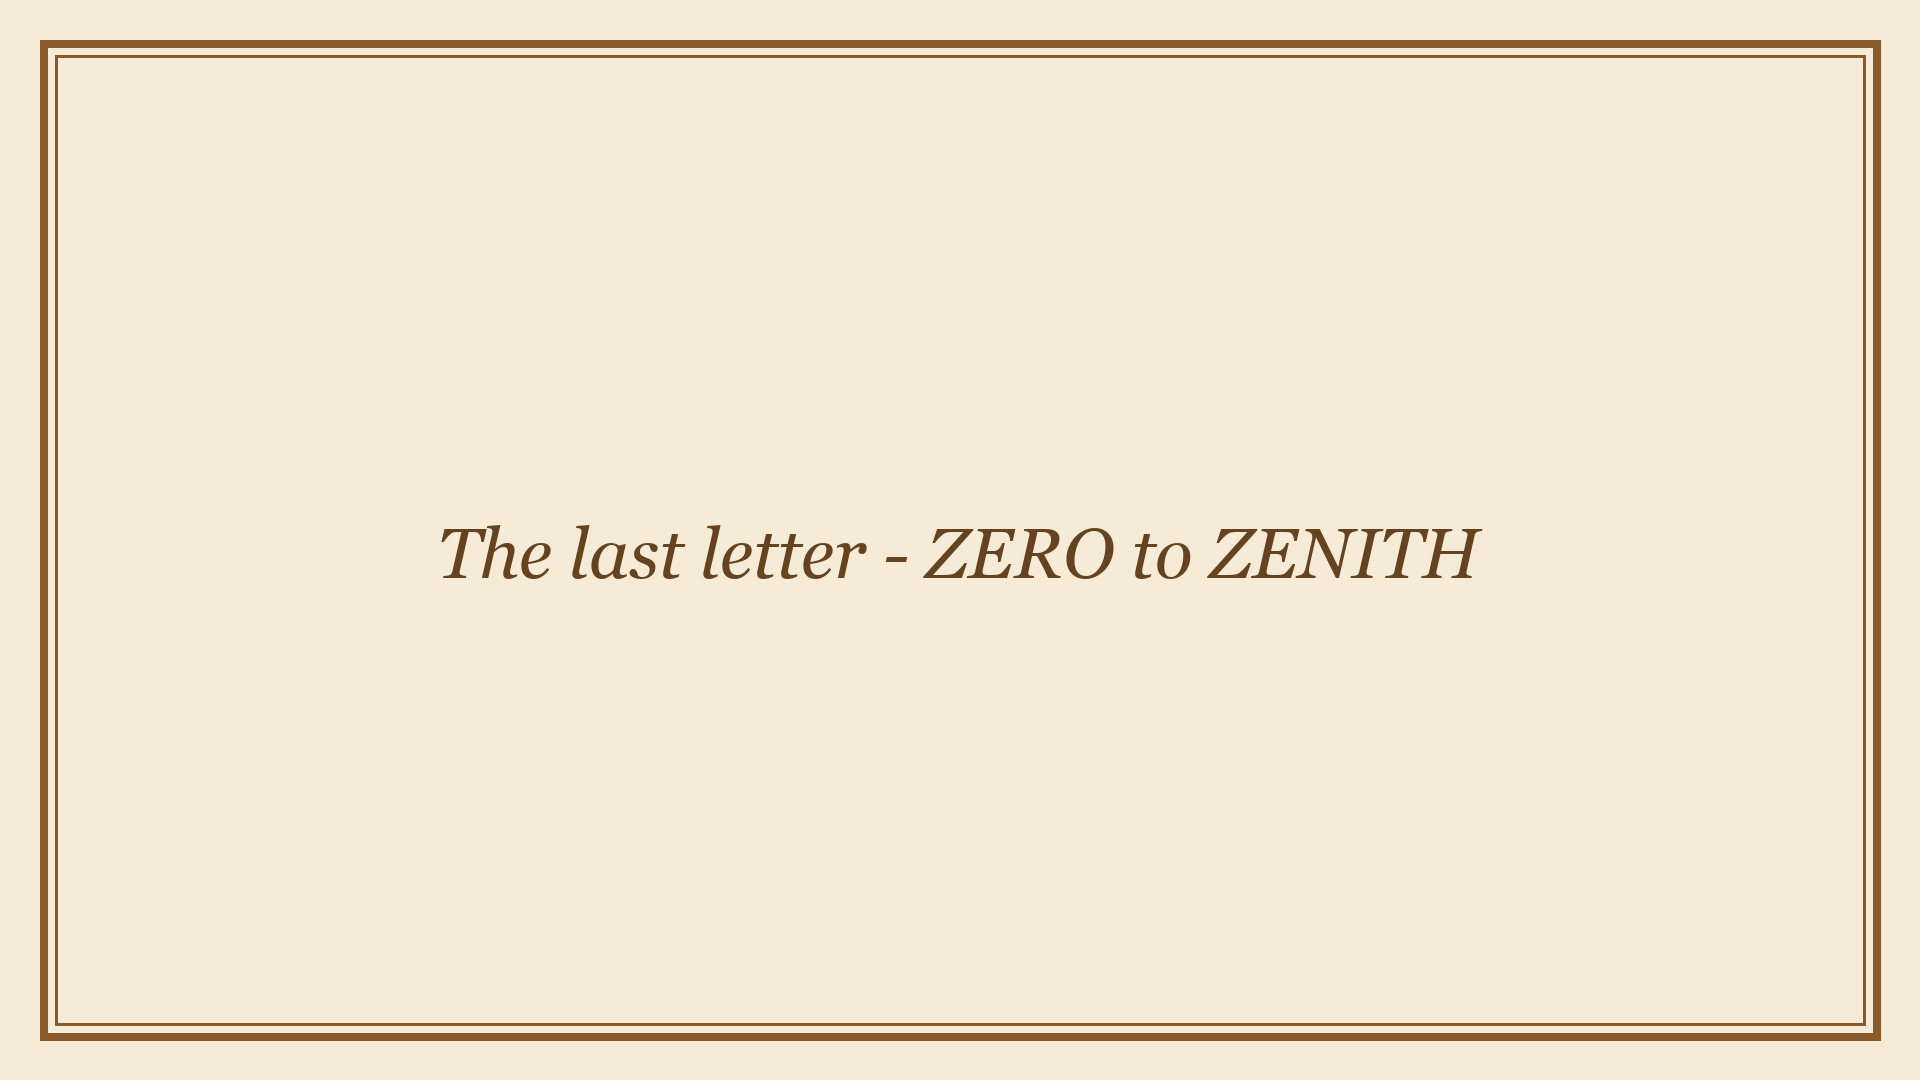
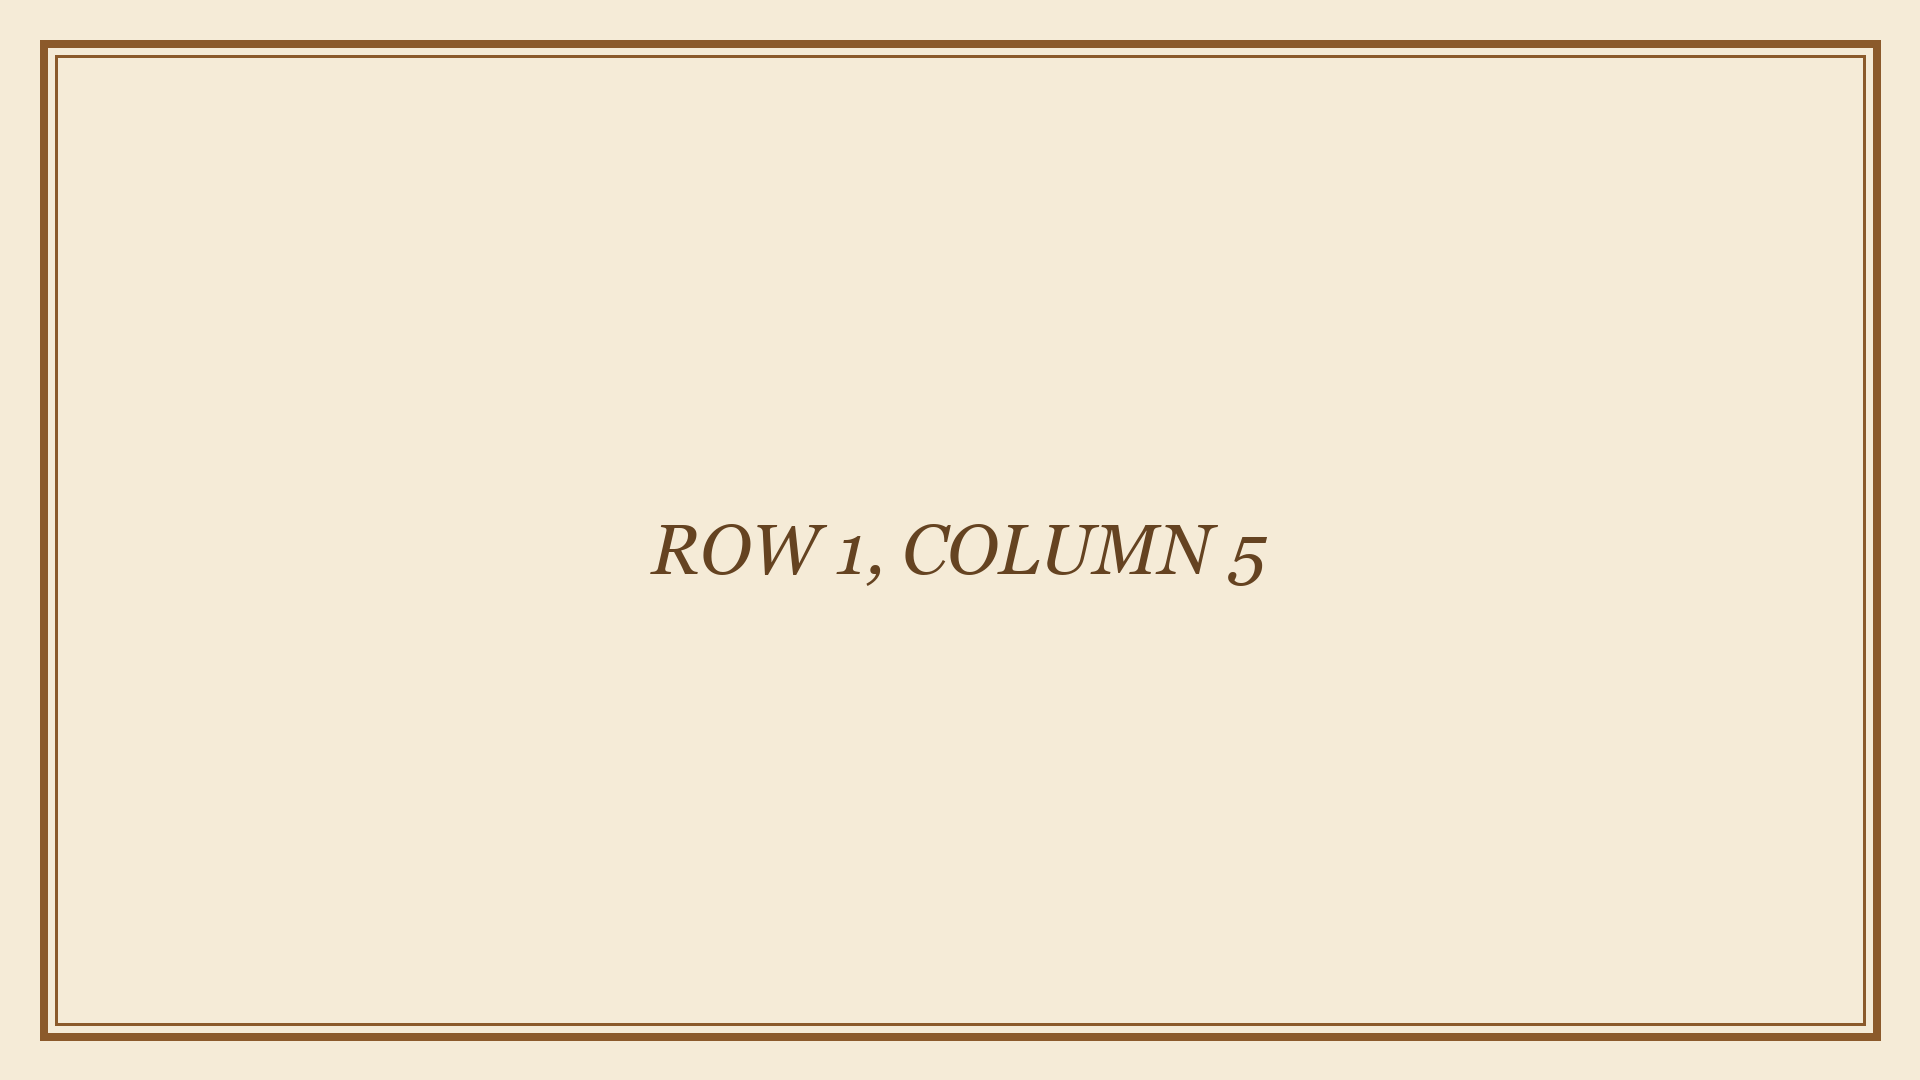
Implement Chapter 1 TAYLOR puzzle with cryptogram coordinates

Changed region(s): [[0.2188, 0.4889, 0.7812, 0.55]]

diff --git a/backend/utils/auto_populate.js b/backend/utils/auto_populate.js
@@ -42,15 +42,15 @@ async function autoPopulateDatabase() {
       for (let i = 1; i <= 20; i++) {
         const layers = [{layer: 0, type: 'base_artwork', description: 'Original artwork'}];
 
-        // Add puzzle layers for Chapter 1 DANZIL puzzle (7 cards: 6 real + 1 fake)
+        // Add puzzle layers for Chapter 1 TAYLOR puzzle (7 cards: 6 real + 1 fake)
         // NOTE: Using DIFFERENT layer numbers like original system (1, 2, 3, 4, 5, 6, 7)
-        if (i === 4) layers.push({layer: 7, type: 'cryptogram_coordinate', url: '/treasure_hunt/chapter1/layers/nft_4_layer_7.png', description: 'FAKE BIRD - Wrong coordinate'});
-        if (i === 5) layers.push({layer: 1, type: 'cryptogram_coordinate', url: '/treasure_hunt/chapter1/layers/nft_5_layer_1.png', description: 'ROW 4, COLUMN 8 → D'});
+        if (i === 4) layers.push({layer: 7, type: 'cryptogram_coordinate', url: '/treasure_hunt/chapter1/layers/nft_4_layer_7.png', description: 'ROW 3, COLUMN 7 → X (FAKE)'});
+        if (i === 5) layers.push({layer: 1, type: 'cryptogram_coordinate', url: '/treasure_hunt/chapter1/layers/nft_5_layer_1.png', description: 'ROW 2, COLUMN 2 → T'});
         if (i === 8) layers.push({layer: 4, type: 'cryptogram_coordinate', url: '/treasure_hunt/chapter1/layers/nft_8_layer_4.png', description: 'ROW 1, COLUMN 1 → A'});
-        if (i === 12) layers.push({layer: 2, type: 'cryptogram_coordinate', url: '/treasure_hunt/chapter1/layers/nft_12_layer_2.png', description: 'ROW 7, COLUMN 5 → N'});
-        if (i === 15) layers.push({layer: 5, type: 'cryptogram_coordinate', url: '/treasure_hunt/chapter1/layers/nft_15_layer_5.png', description: 'ROW 17, COLUMN 9 → Z'});
-        if (i === 17) layers.push({layer: 3, type: 'cryptogram_coordinate', url: '/treasure_hunt/chapter1/layers/nft_17_layer_3.png', description: 'ROW 5, COLUMN 5 → I'});
-        if (i === 20) layers.push({layer: 6, type: 'cryptogram_coordinate', url: '/treasure_hunt/chapter1/layers/nft_20_layer_6.png', description: 'ROW 16, COLUMN 1 → L'});
+        if (i === 12) layers.push({layer: 2, type: 'cryptogram_coordinate', url: '/treasure_hunt/chapter1/layers/nft_12_layer_2.png', description: 'ROW 13, COLUMN 1 → Y'});
+        if (i === 15) layers.push({layer: 5, type: 'cryptogram_coordinate', url: '/treasure_hunt/chapter1/layers/nft_15_layer_5.png', description: 'ROW 1, COLUMN 5 → L'});
+        if (i === 17) layers.push({layer: 3, type: 'cryptogram_coordinate', url: '/treasure_hunt/chapter1/layers/nft_17_layer_3.png', description: 'ROW 1, COLUMN 3 → O'});
+        if (i === 20) layers.push({layer: 6, type: 'cryptogram_coordinate', url: '/treasure_hunt/chapter1/layers/nft_20_layer_6.png', description: 'ROW 1, COLUMN 4 → R'});
 
         nfts.push({
           token_id: i,

diff --git a/backend/routes/reset_database.js b/backend/routes/reset_database.js
@@ -37,15 +37,15 @@ router.get('/reset-database', async (req, res) => {
     for (let i = 1; i <= 20; i++) {
       const layers = [{layer: 0, type: 'base_artwork', description: 'Original artwork'}];
 
-      // Add puzzle layers for Chapter 1 DANZIL puzzle (7 cards: 6 real + 1 fake)
+      // Add puzzle layers for Chapter 1 TAYLOR puzzle (7 cards: 6 real + 1 fake)
       // NOTE: Using DIFFERENT layer numbers like original system (1, 2, 3, 4, 5, 6, 7)
-      if (i === 4) layers.push({layer: 7, type: 'cryptogram_coordinate', url: '/treasure_hunt/chapter1/layers/nft_4_layer_7.png', description: 'FAKE BIRD - Wrong coordinate'});
-      if (i === 5) layers.push({layer: 1, type: 'cryptogram_coordinate', url: '/treasure_hunt/chapter1/layers/nft_5_layer_1.png', description: 'ROW 4, COLUMN 8 → D'});
+      if (i === 4) layers.push({layer: 7, type: 'cryptogram_coordinate', url: '/treasure_hunt/chapter1/layers/nft_4_layer_7.png', description: 'ROW 3, COLUMN 7 → X (FAKE)'});
+      if (i === 5) layers.push({layer: 1, type: 'cryptogram_coordinate', url: '/treasure_hunt/chapter1/layers/nft_5_layer_1.png', description: 'ROW 2, COLUMN 2 → T'});
       if (i === 8) layers.push({layer: 4, type: 'cryptogram_coordinate', url: '/treasure_hunt/chapter1/layers/nft_8_layer_4.png', description: 'ROW 1, COLUMN 1 → A'});
-      if (i === 12) layers.push({layer: 2, type: 'cryptogram_coordinate', url: '/treasure_hunt/chapter1/layers/nft_12_layer_2.png', description: 'ROW 7, COLUMN 5 → N'});
-      if (i === 15) layers.push({layer: 5, type: 'cryptogram_coordinate', url: '/treasure_hunt/chapter1/layers/nft_15_layer_5.png', description: 'ROW 17, COLUMN 9 → Z'});
-      if (i === 17) layers.push({layer: 3, type: 'cryptogram_coordinate', url: '/treasure_hunt/chapter1/layers/nft_17_layer_3.png', description: 'ROW 5, COLUMN 5 → I'});
-      if (i === 20) layers.push({layer: 6, type: 'cryptogram_coordinate', url: '/treasure_hunt/chapter1/layers/nft_20_layer_6.png', description: 'ROW 16, COLUMN 1 → L'});
+      if (i === 12) layers.push({layer: 2, type: 'cryptogram_coordinate', url: '/treasure_hunt/chapter1/layers/nft_12_layer_2.png', description: 'ROW 13, COLUMN 1 → Y'});
+      if (i === 15) layers.push({layer: 5, type: 'cryptogram_coordinate', url: '/treasure_hunt/chapter1/layers/nft_15_layer_5.png', description: 'ROW 1, COLUMN 5 → L'});
+      if (i === 17) layers.push({layer: 3, type: 'cryptogram_coordinate', url: '/treasure_hunt/chapter1/layers/nft_17_layer_3.png', description: 'ROW 1, COLUMN 3 → O'});
+      if (i === 20) layers.push({layer: 6, type: 'cryptogram_coordinate', url: '/treasure_hunt/chapter1/layers/nft_20_layer_6.png', description: 'ROW 1, COLUMN 4 → R'});
 
       nfts.push({
         token_id: i,

diff --git a/backend/routes/treasure_hunt.js b/backend/routes/treasure_hunt.js
@@ -9,7 +9,7 @@ const router = express.Router();
 
 // Store puzzle solution securely in backend (not exposed in frontend code)
 const PUZZLE_SOLUTIONS = {
-  'chapter1': 'DANZIL',
+  'chapter1': 'TAYLOR',
   'chapter2': 'ANSE SOLEIL'
 };
 

diff --git a/create_taylor_puzzle.py b/create_taylor_puzzle.py
@@ -1,0 +1,46 @@
+#!/usr/bin/env python3
+from PIL import Image, ImageDraw, ImageFont
+import os
+
+WIDTH, HEIGHT = 1920, 1080
+BG_COLOR = (245, 235, 215)  # Beige
+TEXT_COLOR = (101, 67, 33)  # Brown
+BORDER_COLOR = (139, 90, 43)  # Dark brown
+
+OUTPUT_DIR = "content/treasure_hunt_chapter1/layers"
+
+def create_coordinate_layer(filename, coordinate_text):
+    """Create a puzzle layer with coordinate text only"""
+    img = Image.new('RGB', (WIDTH, HEIGHT), BG_COLOR)
+    draw = ImageDraw.Draw(img)
+
+    # Load fonts
+    try:
+        coord_font = ImageFont.truetype("C:/Windows/Fonts/georgiai.ttf", 70)
+    except:
+        coord_font = ImageFont.load_default()
+
+    # Draw border
+    draw.rectangle([(40, 40), (WIDTH-40, HEIGHT-40)], outline=BORDER_COLOR, width=8)
+    draw.rectangle([(55, 55), (WIDTH-55, HEIGHT-55)], outline=BORDER_COLOR, width=3)
+
+    # Draw coordinate text centered
+    coord_bbox = draw.textbbox((0, 0), coordinate_text, font=coord_font)
+    coord_w = coord_bbox[2] - coord_bbox[0]
+    coord_h = coord_bbox[3] - coord_bbox[1]
+    draw.text(((WIDTH - coord_w) // 2, (HEIGHT - coord_h) // 2), coordinate_text, fill=TEXT_COLOR, font=coord_font)
+
+    img.save(os.path.join(OUTPUT_DIR, filename), "PNG", quality=95)
+    print(f"Created: {filename}")
+
+# Create TAYLOR puzzle layers
+create_coordinate_layer("nft_5_layer_1.png", "ROW 2, COLUMN 2")  # T
+create_coordinate_layer("nft_8_layer_4.png", "ROW 1, COLUMN 1")  # A
+create_coordinate_layer("nft_12_layer_2.png", "ROW 13, COLUMN 1")  # Y
+create_coordinate_layer("nft_15_layer_5.png", "ROW 1, COLUMN 5")  # L
+create_coordinate_layer("nft_17_layer_3.png", "ROW 1, COLUMN 3")  # O
+create_coordinate_layer("nft_20_layer_6.png", "ROW 1, COLUMN 4")  # R
+create_coordinate_layer("nft_4_layer_7.png", "ROW 3, COLUMN 7")  # X (FAKE)
+
+print("\nAll 7 Chapter 1 TAYLOR puzzle layers created!")
+print("Letters spell: T-A-Y-L-O-R (John Taylor - La Buse's pirate partner)")
